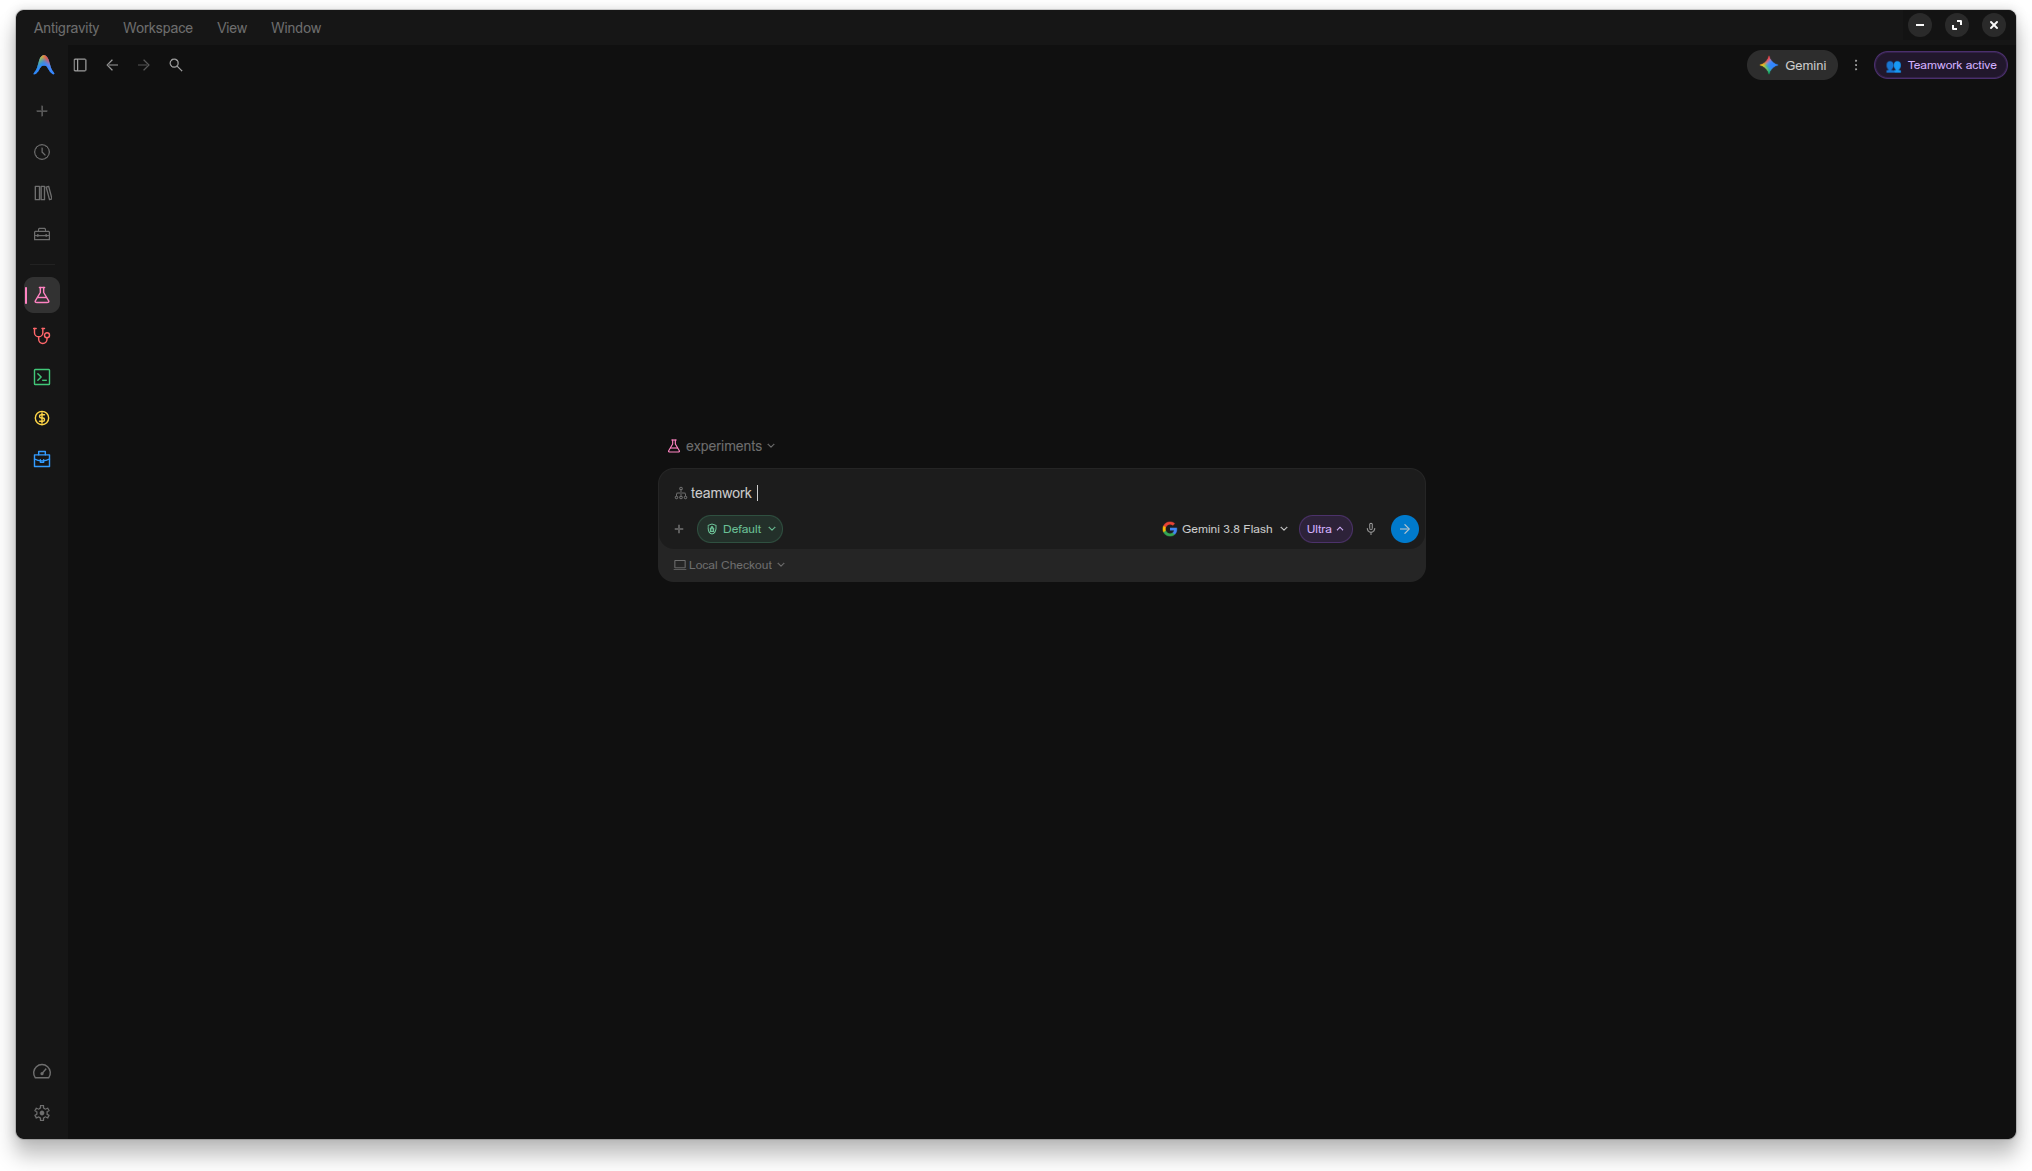
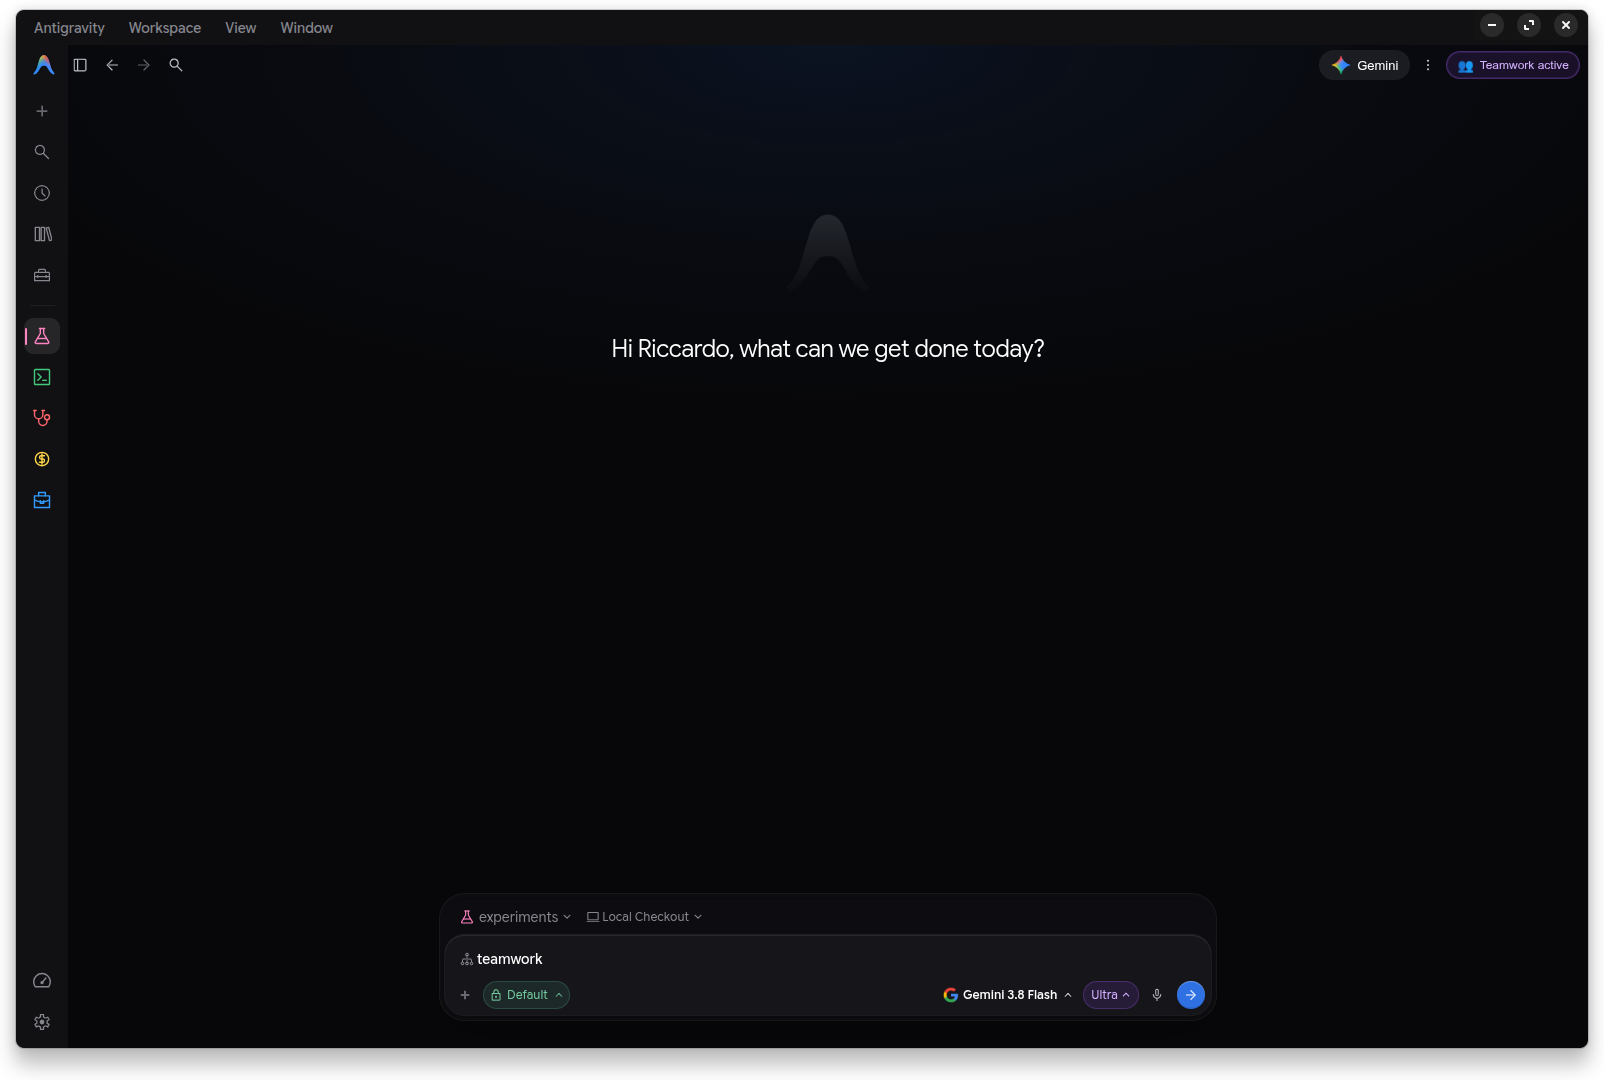
Add graphical context hover overview and refresh README screenshot; release 1.18.2

diff --git a/common/context-budget.js b/common/context-budget.js
@@ -1,7 +1,7 @@
 /* Visual Context Budget indicator and /compact recommendation. */
 (() => {
   'use strict';
-  const VERSION = '1.2.0';
+  const VERSION = '1.3.0';
   if (globalThis.__AGContextBudget?.version === VERSION) return;
   globalThis.__AGContextBudget?.destroy();
 
@@ -18,7 +18,8 @@
   };
 
   let stopped = false, timer = null;
-  let activeStats = null, popup = null, popupButton = null;
+  let activeStats = null, popup = null, popupButton = null, popupMode = null;
+  let hoverTimer = null, hoverCloseTimer = null;
 
   function element(tag, attributes = {}, ...children) {
     const node = document.createElement(tag);
@@ -33,6 +34,10 @@
   }
 
   function closePopup() {
+    clearTimeout(hoverTimer);clearTimeout(hoverCloseTimer);
+    hoverTimer = hoverCloseTimer = null;
+    popupButton?.removeAttribute('aria-describedby');
+    popupMode = null;
     popupButton?.setAttribute('aria-expanded', 'false');
     popupButton = null;
     if (popup) {
@@ -73,15 +78,18 @@
     popup.style.top = Math.max(8, above >= 8 ? above : Math.min(rect.bottom + 8, window.innerHeight - height - 8)) + 'px';
   }
 
-  function openDetails(button, stats) {
+  function openDetails(button, stats, preview = false) {
     closePopup();
     if (stopped) return;
     popupButton = button;
-    button.setAttribute('aria-expanded', 'true');
+    popupMode = preview ? 'preview' : 'details';
+    if (preview) button.setAttribute('aria-describedby','agpa-context-hover');
+    else button.setAttribute('aria-expanded', 'true');
     popup = element('div', {
-      class: 'agpa-context-popup', role: 'dialog',
+      class: 'agpa-context-popup' + (preview ? ' agpa-context-hover' : ''), role: preview ? 'tooltip' : 'dialog',
       'aria-label': t('Context window'), 'data-level': stats.budget.level
     });
+    if (preview) popup.id = 'agpa-context-hover';
     popup.style.setProperty('--context-color', stats.budget.level === 'saturated' ? '#f08080' : stats.budget.level === 'elevated' ? '#e8b75b' : '#a78bfa');
     const header = element('div', { class: 'agpa-context-header' });
     header.append(element('strong', { class: 'agpa-context-title', text: t('Context window') }));
@@ -107,7 +115,7 @@
       return '~' + Number((value / unit).toFixed(1)) + (unit === 1000 ? 'k' : 'M');
     };
     const percent = totals.percentage === null ? '—' : Math.round(totals.percentage) + '%';
-    header.append(closeBtn);
+    if (!preview) header.append(closeBtn);
     const hero = element('div', {class:'agpa-context-hero'});
     const donut = element('div', {class:'agpa-context-donut', 'aria-hidden':'true'});
     donut.style.setProperty('--context-percent', (totals.percentage || 0) + '%');
@@ -118,6 +126,12 @@
       text:t('{used} of {capacity} tokens used', {used:format(totals.used),capacity:format(totals.capacity)})
     }));
     hero.append(donut,headline);popup.append(hero);
+    if (preview) {
+      popup.addEventListener('pointerenter',()=>{clearTimeout(hoverCloseTimer);hoverCloseTimer=null;});
+      popup.addEventListener('pointerleave',schedulePreviewClose);
+      placePopup(button);
+      return;
+    }
 
     const meter = element('div', {
       class: 'agpa-context-meter', role: 'progressbar',
@@ -183,6 +197,23 @@
     placePopup(button);
   }
 
+  function schedulePreviewClose() {
+    clearTimeout(hoverTimer);hoverTimer=null;
+    if (popupMode !== 'preview') return;
+    clearTimeout(hoverCloseTimer);
+    hoverCloseTimer=setTimeout(()=>{hoverCloseTimer=null;if(popupMode==='preview')closePopup();},180);
+  }
+  function schedulePreview(button) {
+    clearTimeout(hoverCloseTimer);hoverCloseTimer=null;
+    if (popupMode === 'details' || (popupMode === 'preview' && popupButton === button)) return;
+    clearTimeout(hoverTimer);
+    hoverTimer=setTimeout(()=>{
+      hoverTimer=null;
+      if(stopped || !button.isConnected || document.querySelector('[data-testid=context-usage-indicator]')) return;
+      const stats=activeStats || rules.extractConversationStats(document);
+      if(!isPending(stats))openDetails(button,stats,true);
+    },180);
+  }
   function createPill() {
     const pill = element('button', {
       type: 'button',
@@ -194,9 +225,11 @@
     pill.addEventListener('click', e => {
       e.preventDefault();
       e.stopPropagation();
-      if (popup) closePopup();
+      if (popup && popupMode === 'details') closePopup();
       else openDetails(pill, activeStats || rules.extractConversationStats(document));
     });
+    pill.addEventListener('pointerenter',()=>schedulePreview(pill));
+    pill.addEventListener('pointerleave',schedulePreviewClose);
     pill.append(element('span', {class:'agpa-context-ring', 'aria-hidden':'true'}));
     return pill;
   }
@@ -206,7 +239,7 @@
       const label = t('Context window');
       pill.setAttribute('data-level', 'pending');
       pill.style.setProperty('--agpa-context-fill','0%');
-      pill.setAttribute('title', t('Context estimates appear after the conversation starts.'));
+      pill.removeAttribute('title');
       pill.setAttribute('aria-label', label);
       return;
     }
@@ -215,13 +248,8 @@
     }
     pill.style.setProperty('--budget-color', stats.budget.color);
 
-    const tokenLabel = `${stats.formatted} tok`;
+    pill.removeAttribute('title');
     pill.style.setProperty('--agpa-context-fill', Math.max(0, Math.min(100, stats.budget.percentage)) + '%');
-    const ceilingFormatted = rules.formatTokens ? rules.formatTokens(stats.ceiling || 200000) : '~200k';
-    const titleText = stats.modelName
-      ? (t('Context: {tokens}', { tokens: tokenLabel }) + ' / ' + ceilingFormatted + ' (' + stats.budget.percentage + '%) · ' + stats.modelName)
-      : (t('Context: {tokens}', { tokens: tokenLabel }) + ' / ' + ceilingFormatted + ' (' + stats.budget.percentage + '%)');
-    if (pill.getAttribute('title') !== titleText) pill.setAttribute('title', titleText);
     const ariaText = t('Context budget: {tokens} tokens ({turns} turns)', {
       tokens: stats.formatted,
       turns: String(stats.turns)
@@ -345,6 +373,7 @@
       box-shadow: 0 8px 28px #0006;
       font-variant-numeric: tabular-nums;
     }
+    .agpa-context-hover .agpa-context-hero {margin-bottom:0}
     .agpa-context-header {display:flex;align-items:center;gap:8px;margin-bottom:9px}
     .agpa-context-title {text-transform:uppercase;letter-spacing:.055em;font-size:10px;font-weight:600;color:var(--muted-foreground,#999);margin-right:auto}
     .agpa-context-percent {font-size:13px;font-weight:600;color:var(--foreground,#eee);position:relative}
@@ -434,7 +463,7 @@
 
   globalThis.__AGContextBudget = {
     version: VERSION,
-    status: () => ({ stats: activeStats, open: !!popup }),
+    status: () => ({ stats: activeStats, open: !!popup, mode: popupMode }),
     getActiveKey: () => (rules.getConversationKey ? rules.getConversationKey(document) : 'default'),
     needsTranscript: (key, optionsOrMtime) => {
       const k = (typeof key === 'string' ? key : key?.convKey) || (rules.getConversationKey ? rules.getConversationKey(document) : 'default');

diff --git a/README.md b/README.md
@@ -6,7 +6,7 @@
 
 # 🧩 Antigravity Plugin
 
-[![Version 1.18.1](https://img.shields.io/badge/version-1.18.1-blue)](CHANGELOG.md)
+[![Version 1.18.2](https://img.shields.io/badge/version-1.18.2-blue)](CHANGELOG.md)
 [![Checks](https://github.com/Riccardo-Vecchi/antigravity-plugin/actions/workflows/checks.yml/badge.svg?branch=main)](https://github.com/Riccardo-Vecchi/antigravity-plugin/actions/workflows/checks.yml)
 [![Linux verified](https://img.shields.io/badge/Linux-verified-brightgreen)](docs/CONFIGURATION.md)
 [![Windows experimental](https://img.shields.io/badge/Windows-experimental-orange)](windows/README.md)
@@ -48,7 +48,7 @@ Development and local verification: [Contributing](https://github.com/Riccardo-V
     <th width="50%">Gemini in the same window</th>
   </tr>
   <tr>
-    <td width="50%" align="center" valign="middle"><img src="docs/images/antigravity-demo.png?v=1.15.1" width="560" alt="Antigravity with permissions on the left, model and effort on the right, and colored project icons"></td>
+    <td width="50%" align="center" valign="middle"><img src="docs/images/antigravity-demo.png?v=1.18.2" width="560" alt="Antigravity with permissions on the left, model and effort on the right, and colored project icons"></td>
     <td width="50%" align="center" valign="middle"><img src="docs/images/gemini-demo.png" width="560" alt="Gemini with the in-page Antigravity return button"></td>
   </tr>
   <tr>

diff --git a/docs/CONTEXT_BUDGET.md b/docs/CONTEXT_BUDGET.md
@@ -1,6 +1,6 @@
 # 🧭 Context window
 
-The global indicator sits immediately before the model selector. It is hidden in new chats until conversation data is available. Open it for context utilization, the estimated capacity, a breakdown of instructions/tools, conversation and free space, and available input/cache/output counters. No per-turn token badges, deltas or footprint calculations are performed.
+The global indicator sits immediately before the model selector. It is hidden in new chats until conversation data is available. Hover for a graphical overview of utilization and tokens used; click for the full breakdown. Open it for context utilization, the estimated capacity, a breakdown of instructions/tools, conversation and free space, and available input/cache/output counters. No per-turn token badges, deltas or footprint calculations are performed.
 
 ## 🔎 Native controls first
 

diff --git a/CHANGELOG.md b/CHANGELOG.md
@@ -1,5 +1,9 @@
 # Changelog
 
+## 1.18.2
+
+- Show a graphical global-context overview on hover; clicking keeps the full breakdown. Replace the native text tooltip and refresh the first README screenshot.
+
 ## 1.18.1
 
 - Start visible Library thumbnails on opening, filtering and scrolling even when Electron defers visibility-observer callbacks. Keep loading bounded and release timers on close.
